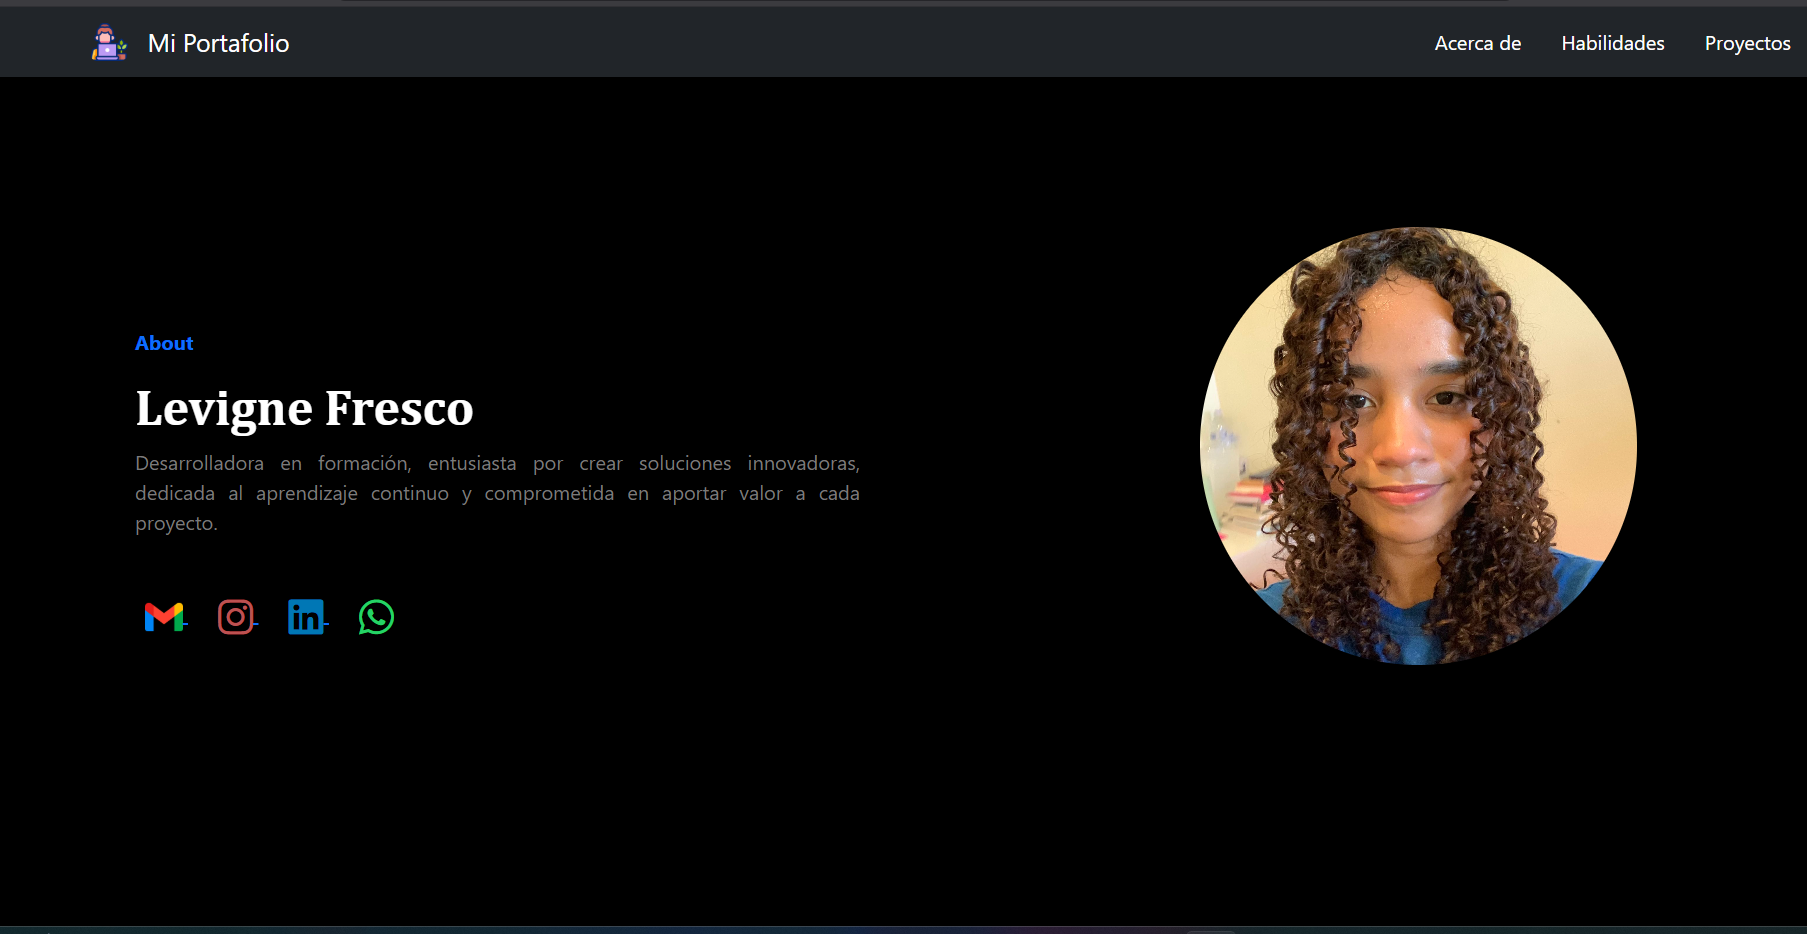
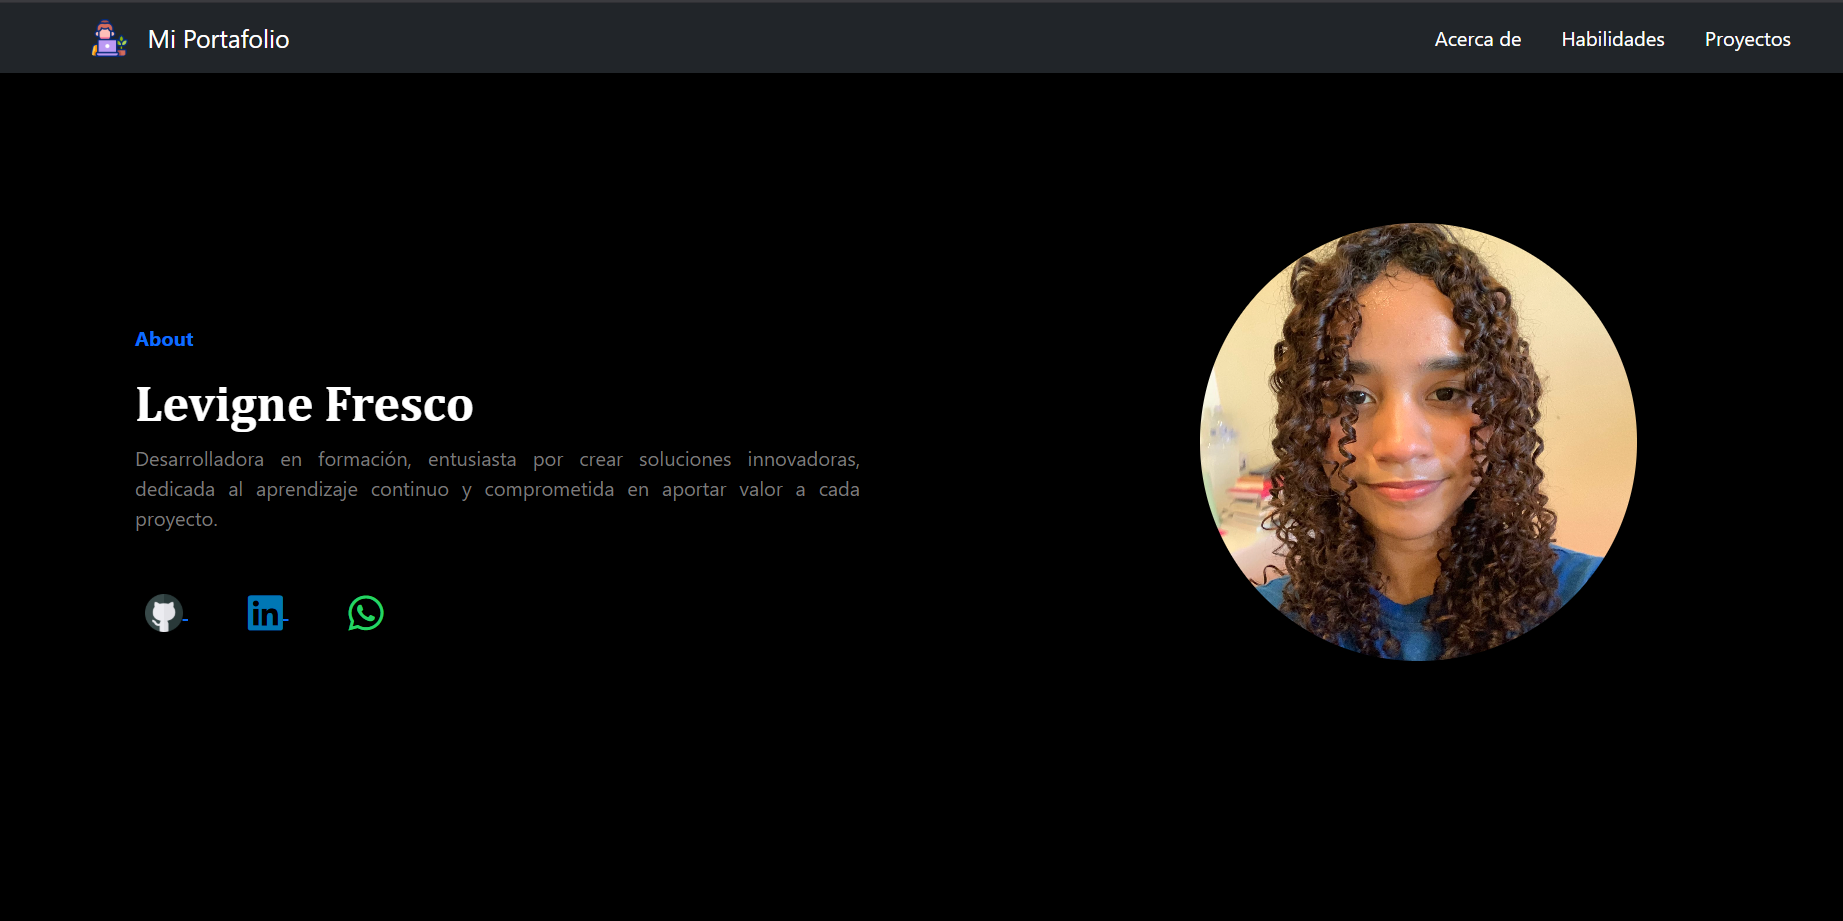
More Updates

diff --git a/index.html b/index.html
@@ -45,16 +45,13 @@
         <p class="description">Desarrolladora en formación, entusiasta por crear soluciones innovadoras, dedicada al aprendizaje continuo y comprometida en aportar valor a cada proyecto.</p>
 
       <div class="social-icons mt-5 ms-2">
-      <a href="mailto:tuemail@gmail.com" class="me-4" target="_blank" title="Gmail">
-       <img src="./Img/Gmail.jpg" alt="gamil" style="width: 30px; height: 30px; object-fit: cover;">
+      <a href="https://github.com/Marit-dev" class="me-5" target="_blank" title="GitHub">
+       <img src="./Img/GitHub.png" alt="gamil" style="width: 30px; height: 30px; object-fit: cover;">
       </a>
-      <a href="https://www.instagram.com/tuusuario" class="me-4" target="_blank" title="Instagram">
-        <i class="fab fa-instagram fa-2x" style="color:#bd5151; vertical-align: middle;"></i>
-      </a>
-      <a href="https://www.linkedin.com/in/tuusuario" class="me-4" target="_blank" title="Linkedin">
+      <a href="https://www.linkedin.com/in/levigne-fresco-9b7a272b9/" class="me-5" target="_blank" title="Linkedin">
         <i class="fab fa-linkedin fa-2x" style="color:#0077B5; vertical-align: middle;"></i>
       </a>
-      <a href="https://wa.me/1234567890" class="me-3" target="_blank" title="Whatsapp">
+      <a href="https://wa.me/18294865170" class="me-3" target="_blank" title="Whatsapp">
         <i class="fab fa-whatsapp fa-2x" style="color:#25D366; vertical-align: middle;"></i>
       </a>
     </div>
